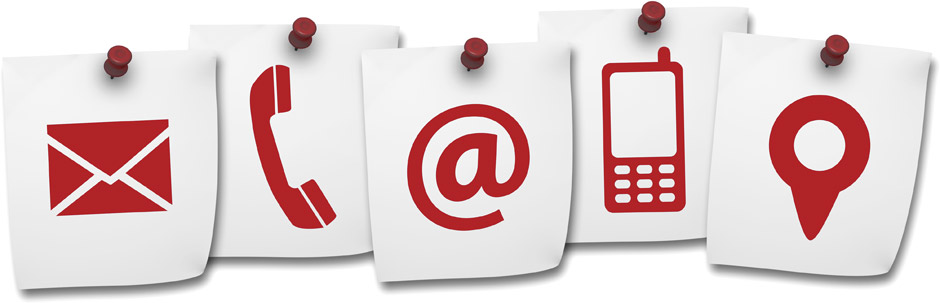
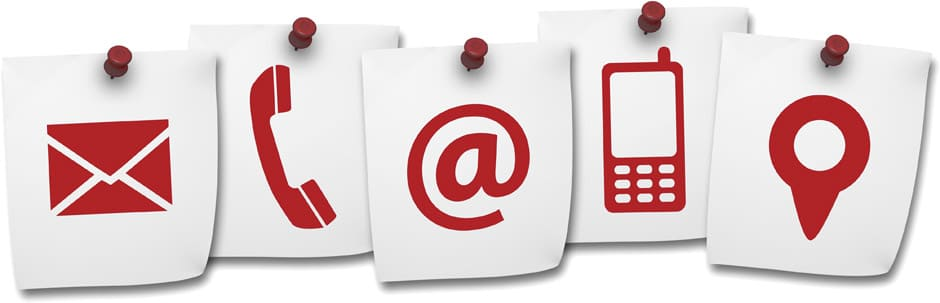
project compressed
images compressed + minor changes

diff --git a/Templates/home.html b/Templates/home.html
@@ -94,27 +94,11 @@ the body part goes here
 <!-- Typing Text Animation -->
 <div class="container">
   <div class="d-flex justify-content-center align-items-center">
-  <div class="text-center m-4 text-nowrap">
-  <p class="typed-out">تنها نمایندگی رسمی فروش قطعات شرکت پاکشوما</p>
+    <div class="text-center m-4 text-nowrap">
+      <p class="typed-out">تنها نمایندگی رسمی فروش قطعات شرکت پاکشوما</p>
+    </div>
   </div>
 </div>
-</div>
-
-{% comment %} <div class="container">
-  <div class="d-flex justify-content-center text-center">
-    <span class="border border-3 border-primary p-3 m-2 px-5">
-      <div class="bar top"></div>
-      <div class="bar right delay"></div>
-      <div class="bar bottom delay"></div>
-      <div class="bar left"></div>
-      <h2>
-        تنها نمایندگی رسمی فروش قطعات پاکشوما
-      </h2>
-    </span>
-  </div> {% endcomment %}
-
-</div>
-
 <!-- Ctegories Section -->
 <section id="categories" class="my-4">
   <div class="container-md container-fluid">
@@ -147,7 +131,7 @@ the body part goes here
 <section class="">
   <div class="container-md container-fluid mt-5 pt-3">
     <div class="d-flex justify-content-between align-items-center mx-3">
-      <h2 style='color:#DC143C' class="m-2"><strong><span style='color:#0047AB'>پیشنهاد</span> شگفت انگیز</strong></h2>  
+      <h2 style='color:#DC143C' class="m-2"><strong><span style='color:#AA98A9'>پیشنهاد</span> شگفت انگیز</strong></h2>  
     </div>
     <hr />
     <div class="slider-wraper slider-wraper-custom p-2 my-4 bg-gradient">

diff --git a/static/css/parts_list.css b/static/css/parts_list.css
@@ -8,6 +8,10 @@ body {
   overflow-x: hidden;
 }
 
+.card{
+  border-color: #a80000 !important;
+}
+
 .header-text {
   text-wrap: nowrap;
 }

diff --git a/Allin_Part/setting/dev.py b/Allin_Part/setting/dev.py
@@ -20,7 +20,7 @@ SITE_ID = config('SITE_ID', cast=int, default=1)
 
 # Database
 # https://docs.djangoproject.com/en/4.2/ref/settings/#databases
-
+'''
 # DATABASES = {
 #     'default': dj_database_url.config(default=os.environ.get('DATABASE_URL'))
 #     }
@@ -32,18 +32,18 @@ DATABASES = {
         'NAME': BASE_DIR / 'db.sqlite3',
     }
 }
+'''
 
-
-# DATABASES = {
-#    'default': {
-#        'ENGINE': 'django.db.backends.postgresql',
-#        'NAME': config('NAME', default='postgre'),
-#        'USER': config('USER', default='postgre'),
-#        'PASSWORD': config('PASSWORD', default='postgre'),
-#        'HOST': config('HOST', default='postgre'),
-#        'PORT': config('PORT', default='5432'),
-#    }
-# }
+DATABASES = {
+   'default': {
+       'ENGINE': 'django.db.backends.postgresql',
+       'NAME': config('NAME', default='postgre'),
+       'USER': config('USER', default='postgre'),
+       'PASSWORD': config('PASSWORD', default='postgre'),
+       'HOST': config('HOST', default='postgre'),
+       'PORT': config('PORT', default='5432'),
+   }
+}
 
 # Static files (CSS, JavaScript, Images)
 # https://docs.djangoproject.com/en/4.2/howto/static-files/

diff --git a/main/views.py b/main/views.py
@@ -8,7 +8,7 @@ from django.contrib import messages
 # Create your views here.
 
 def home_view(request):
-    category = Category.objects.all()
+    category = Category.objects.all().order_by('created_date')
     parts = Part.objects.filter(popular=1)
     discounts = Part.objects.filter(is_onsale=1)
     
